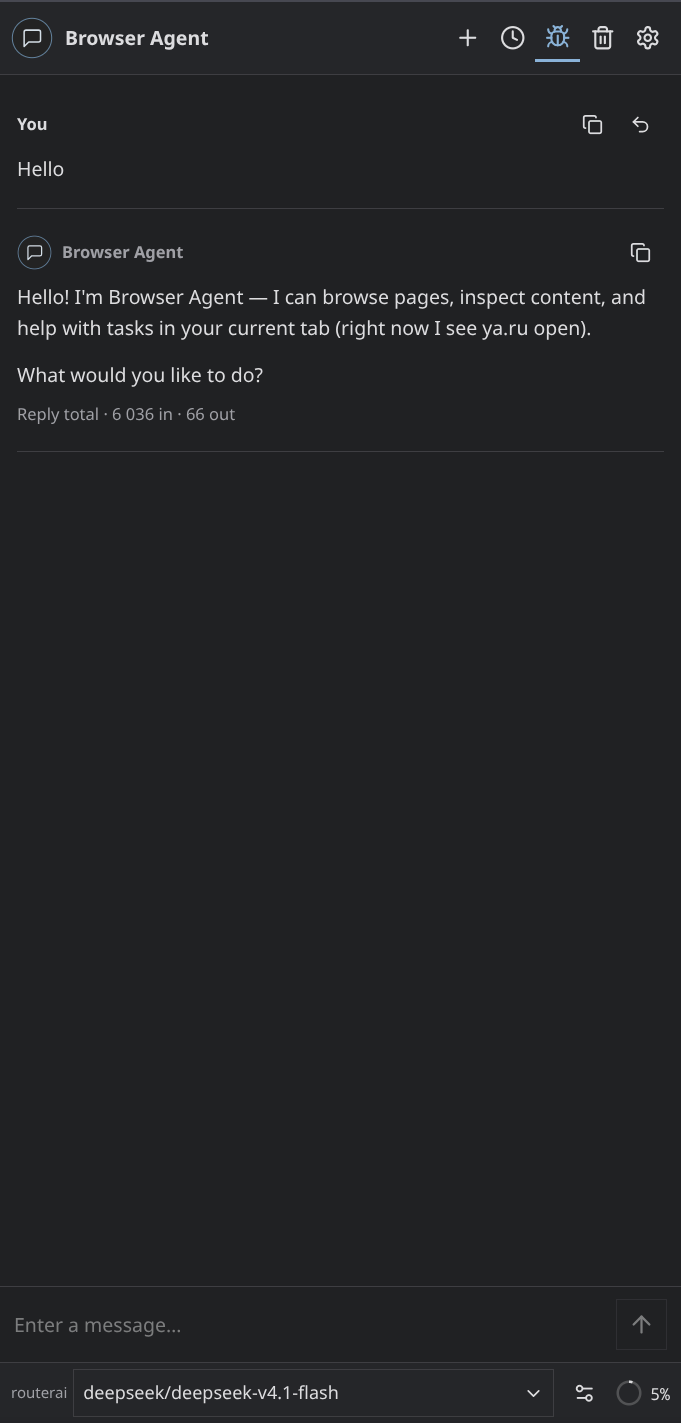
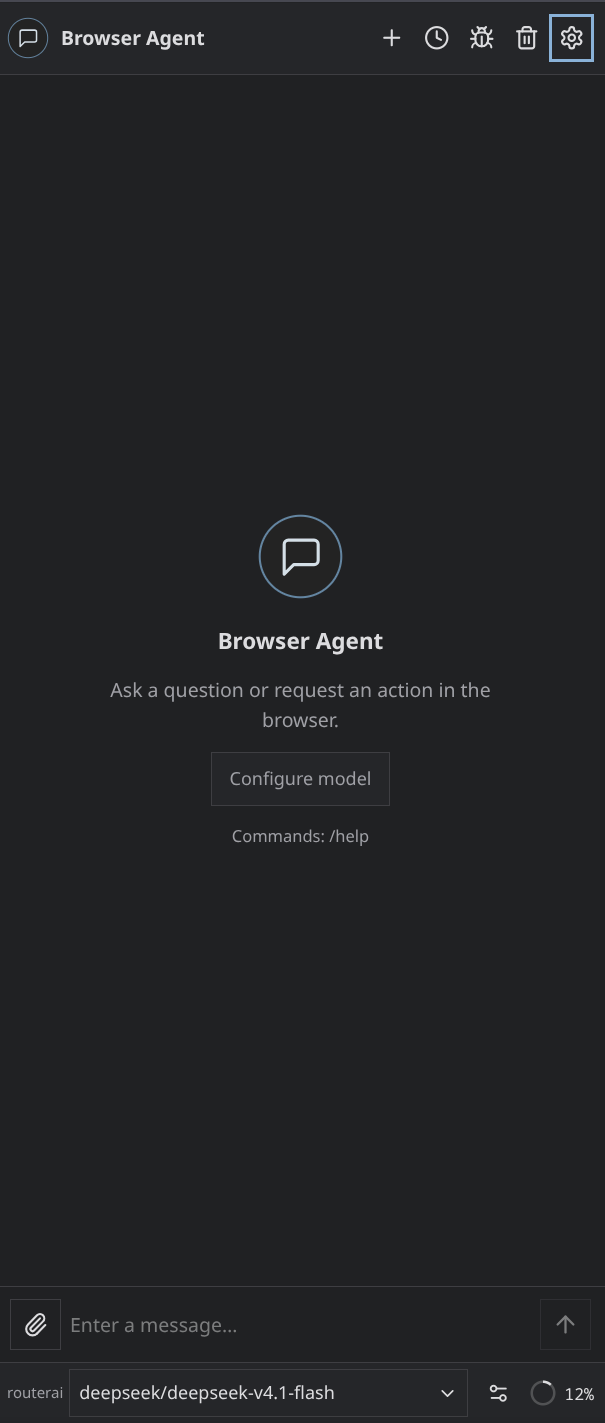
docs: refresh screenshots and document chat attachments

diff --git a/README_ru.md b/README_ru.md
@@ -47,6 +47,7 @@
 - **Веб-поиск** — DuckDuckGo по умолчанию, Tavily по желанию. Публичные ссылки читаются без открытия вкладки.
 - **Ограниченный вывод** — каждый результат укладывается в профиль lean / balanced / full. Большие данные уходят в артефакты IndexedDB и передаются по ID.
 - **Контролируемый контекст** — полная переписка хранится отдельно от того, что видит модель. `/compact` добавляет карточку сводки, сообщения остаются видимыми.
+- **Вложения в чате** — до 8 изображений или текстовых файлов через скрепку; отправляются вместе с сообщением и остаются в истории.
 - **Быстрые команды** — `/compact`, `/debug`, `/extract`, `/perf`, `/clear`, `/new`, `/model`, `/tools`, `/settings`, `/help`.
 - **Свод действий** — все шаги одной задачи сворачиваются в один раскрываемый блок внутри ответа.
 - **Плавающая кнопка** — круглая кнопка чата на странице. Перетащите её в зону «Закрыть», чтобы скрыть на этой вкладке.

diff --git a/README.md b/README.md
@@ -47,6 +47,7 @@
 - **Web search** — DuckDuckGo by default, Tavily optional. Public URLs can be read without opening a tab.
 - **Bounded output** — every tool result fits a lean / balanced / full profile. Large payloads go to IndexedDB artifacts and are referenced by ID.
 - **Context you control** — full transcript kept separately from what the model sees. `/compact` adds a summary card; visible messages stay.
+- **Chat attachments** — attach up to 8 images or text files with the paperclip; they are sent with the message and shown in history.
 - **Slash commands** — `/compact`, `/debug`, `/extract`, `/perf`, `/clear`, `/new`, `/model`, `/tools`, `/settings`, `/help`.
 - **Action summary** — all steps of one task collapse into a single expandable block inside the reply.
 - **Floating page button** — round chat button on pages. Drag it onto the close target to hide it on that tab.
